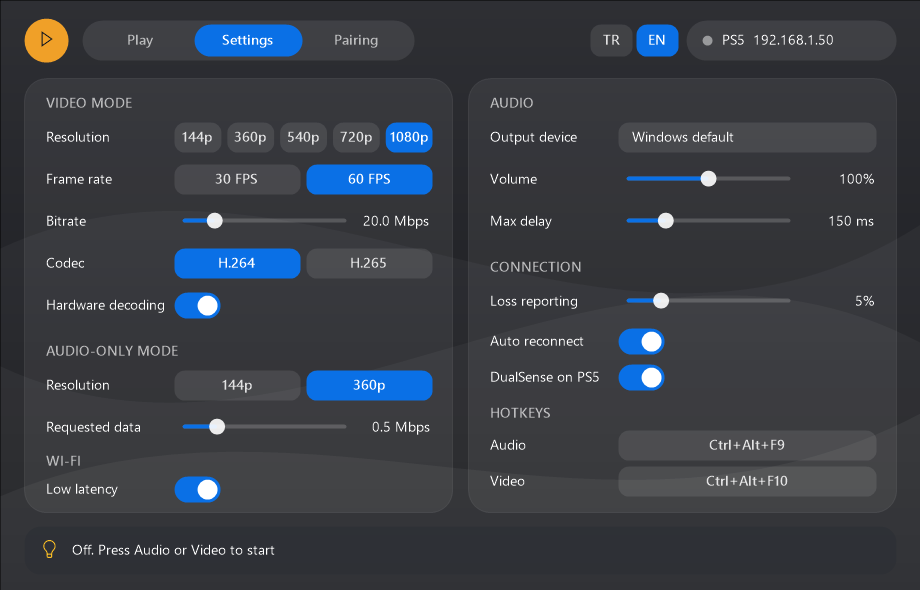
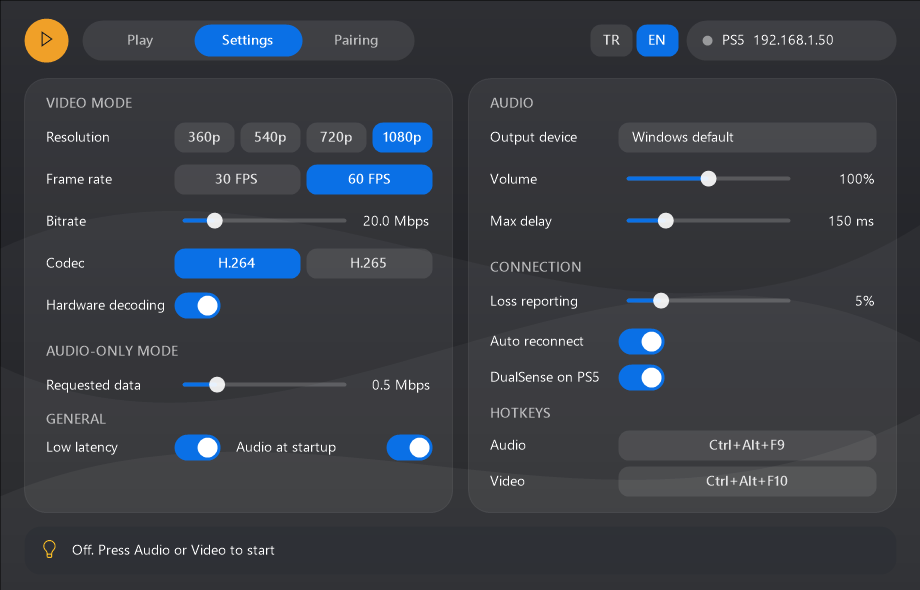
Start audio when the app opens and remove 144p
The PS5 refuses 144p, so 360p is now the lowest option. Keeping the PC
awake and the Wi-Fi tuning now apply only while connected.

diff --git a/src/ui.c b/src/ui.c
@@ -27,7 +27,7 @@
 #define ICON_PLAY L""
 
 enum { UI_NONE, UI_NAV0, UI_NAV1, UI_NAV2, UI_AUDIO, UI_VIDEO, UI_GEAR_A, UI_GEAR_V, UI_APPLY, UI_FIND, UI_LOGIN, UI_ACCOUNT_CLEAR, UI_PAIR, UI_REPAIR,
-	UI_DEVICE, UI_HK_AUDIO, UI_HK_VIDEO, UI_HW, UI_RECONNECT, UI_CONTROLLER, UI_WIFI, UI_BITRATE, UI_AO_BITRATE, UI_VOLUME, UI_BUFFER, UI_LOSS,
+	UI_DEVICE, UI_HK_AUDIO, UI_HK_VIDEO, UI_HW, UI_RECONNECT, UI_CONTROLLER, UI_WIFI, UI_AUTOSTART, UI_BITRATE, UI_AO_BITRATE, UI_VOLUME, UI_BUFFER, UI_LOSS,
 	UI_PRESET0 = 40, UI_RES0 = 50, UI_FPS0 = 60, UI_CODEC0 = 65, UI_AORES0 = 70, UI_LANG0 = 80, UI_MAX = 96 };
 
 static struct {
@@ -450,15 +450,17 @@ static void page_settings(void)
 	panel(lx, py, pw, ph);
 	panel(rx, py, pw, ph);
 
-	static const wchar_t *const res_names[] = { L"144p", L"360p", L"540p", L"720p", L"1080p" };
+	static const wchar_t *const res_names[] = { L"360p", L"540p", L"720p", L"1080p" };
 	static const wchar_t *const fps_names[] = { L"30 FPS", L"60 FPS" };
 	static const wchar_t *const codec_names[] = { L"H.264", L"H.265" };
 
 	float x = lx + 20, cx = lx + 150, cw = pw - 170, y = py + 14;
 	heading(L"GÖRÜNTÜ MODU", x, y);
 	y += 30;
-	row_label(L"Çözünürlük", L"144p deneyseldir, PS5 kabul etmezse otomatik olarak 360p'ye döner.", x, y, pw - 40);
-	chips_row(UI_RES0, res_names, RES_COUNT, &d->res, cx, y, cw);
+	row_label(L"Çözünürlük", L"Yüksek çözünürlük daha fazla veri ister. PS5 360p'nin altını kabul etmez.", x, y, pw - 40);
+	int res_i = d->res - RES_MIN;
+	chips_row(UI_RES0, res_names, RES_COUNT - RES_MIN, &res_i, cx, y, cw);
+	d->res = res_i + RES_MIN;
 	y += 42;
 	row_label(L"Kare hızı", L"60 FPS daha akıcıdır ama daha fazla veri ister.", x, y, pw - 40);
 	int fps_i = d->fps == 60;
@@ -481,21 +483,23 @@ static void page_settings(void)
 	y += 50;
 	heading(L"SADECE SES MODU", x, y);
 	y += 30;
-	row_label(L"Çözünürlük", L"PS5 görüntüyü yine gönderir, bu yüzden en küçüğü istenir. Görüntü çözülmez.", x, y, pw - 40);
-	chips_row(UI_AORES0, res_names, 2, &d->ao_res, cx, y, cw);
-	y += 42;
-	row_label(L"İstenen veri", L"Wi-Fi'ın kötüyse en düşükte bırak. PS5 kabul etmezse 2 Mbps'ye döner.", x, y, pw - 40);
+	row_label(L"İstenen veri", L"PS5 görüntüyü yine 360p gönderir ama çözülmez. Wi-Fi'ın kötüyse en düşükte bırak. PS5 kabul etmezse 2 Mbps'ye döner.", x, y, pw - 40);
 	steps = d->ao_kbps / 100;
 	slider(UI_AO_BITRATE, cx + 8, y, cw - 94, &steps, 1, 20);
 	d->ao_kbps = steps * 100;
 	bitrate_text(t, 64, d->ao_kbps);
 	text(t, ui.body, cx + cw - 80, y, 80, 30, C_TEXT, 2, 1);
 	y += 38;
-	heading(L"WI-FI", x, y);
+	heading(L"GENEL", x, y);
 	y += 24;
 	row_label(L"Düşük gecikme", L"Bağlıyken Windows'un Wi-Fi taramalarını durdurur, bilgisayarı uyanık tutar. Bağlantı kapanınca eski hâline döner.", x, y, pw - 40);
 	if(switch_toggle(UI_WIFI, cx, y + 2, d->wifi_opt != 0))
 		d->wifi_opt = !d->wifi_opt;
+	text(L"Açılışta ses", ui.body, cx + 60, y, 140, 30, C_TEXT, 0, 1);
+	if(mouse_in(cx + 60, y, cw - 60, 34))
+		ui.tip = L"Uygulama açılınca ses kendiliğinden başlar. PS5 kapalıysa açılana kadar dener.";
+	if(switch_toggle(UI_AUTOSTART, cx + cw - 46, y + 2, d->autostart_audio != 0))
+		d->autostart_audio = !d->autostart_audio;
 
 	x = rx + 20;
 	cx = rx + 150;
@@ -682,7 +686,7 @@ static void status_bar(void)
 	Settings live = settings_get();
 	bool dirty = ui.page == PAGE_SETTINGS && (ui.draft.res != live.res || ui.draft.fps != live.fps || ui.draft.kbps != live.kbps
 		|| ui.draft.h265 != live.h265 || ui.draft.hw != live.hw || ui.draft.ao_res != live.ao_res || ui.draft.ao_kbps != live.ao_kbps
-		|| ui.draft.loss_pct != live.loss_pct || ui.draft.no_controller != live.no_controller || ui.draft.wifi_opt != live.wifi_opt || ui.draft.reconnect != live.reconnect || ui.draft.hotkey_audio != live.hotkey_audio
+		|| ui.draft.loss_pct != live.loss_pct || ui.draft.no_controller != live.no_controller || ui.draft.wifi_opt != live.wifi_opt || ui.draft.autostart_audio != live.autostart_audio || ui.draft.reconnect != live.reconnect || ui.draft.hotkey_audio != live.hotkey_audio
 		|| ui.draft.hotkey_video != live.hotkey_video || strcmp(ui.draft.device, live.device) != 0);
 
 	float tw = w - 56;
@@ -1257,6 +1261,15 @@ int WINAPI wWinMain(HINSTANCE inst, HINSTANCE prev, PWSTR cmd, int show)
 #endif
 	(void)test_thread;
 	HANDLE worker = CreateThread(NULL, 0, thread_main, thread_arg, 0, NULL);
+	bool autostart = !g.test_hidden;
+#ifdef PSSTREAM_TEST
+	autostart = autostart || GetEnvironmentVariableW(L"PSSTREAM_TEST_AUTOSTART", NULL, 0) != 0;
+#endif
+	if(autostart && g.paired && g.host[0] && g.settings.autostart_audio)
+	{
+		g.want_audio = 1;
+		SetEvent(g.wake);
+	}
 
 	if(!g.test_hidden)
 		ShowWindow(g.hwnd, show);

diff --git a/src/main.c b/src/main.c
@@ -40,10 +40,10 @@
 #include <stdlib.h>
 #include <string.h>
 
-// Below this rate or size we are outside what chiaki-ng offers, so a console that refuses
-// to start gets a second try with these values.
+// Below this rate we are outside what chiaki-ng offers, so a console that refuses to start
+// gets a second try with it.
 #define SAFE_KBPS 2000
-#define SAFE_RES_INDEX 1
+#define RES_MIN 1
 #define RETRY_MS 5000
 // Audio waits for this much backlog before playing; each dropout raises it, quiet minutes lower it
 #define AUDIO_TARGET_MIN_MS 30
@@ -76,7 +76,7 @@ typedef struct {
 } Resolution;
 
 static const Resolution resolutions[] = {
-	{ L"144p (deneysel, PS5 kabul etmeyebilir)", 256, 144 },
+	{ L"144p", 256, 144 }, // kept so saved indexes stay valid; the PS5 refuses it ("AvCap failed to initialize")
 	{ L"360p", 640, 360 },
 	{ L"540p", 960, 540 },
 	{ L"720p", 1280, 720 },
@@ -87,7 +87,7 @@ static const Resolution resolutions[] = {
 typedef struct {
 	int res, fps, kbps, h265, hw;
 	int ao_res, ao_kbps;
-	int volume, buffer_ms, loss_pct, reconnect, no_controller, wifi_opt;
+	int volume, buffer_ms, loss_pct, reconnect, no_controller, wifi_opt, autostart_audio;
 	int hotkey_audio, hotkey_video; // HKM_GETHOTKEY format
 	char device[256]; // empty is the system default
 } Settings;
@@ -460,6 +460,7 @@ static void session_event_cb(ChiakiEvent *event, void *user)
 	{
 		case CHIAKI_EVENT_CONNECTED:
 			g.connected = 1;
+			SetEvent(g.wake);
 			set_status(g.want_video ? L"Bağlı - görüntü açık" : L"Bağlı - sadece ses, görüntü çözülmüyor");
 			break;
 		case CHIAKI_EVENT_LOGIN_PIN_REQUEST:
@@ -482,8 +483,6 @@ static void session_event_cb(ChiakiEvent *event, void *user)
 
 static void profile_set(ChiakiConnectVideoProfile *p, int res, int fps, int kbps, ChiakiCodec codec, bool safe)
 {
-	if(safe && res < SAFE_RES_INDEX)
-		res = SAFE_RES_INDEX;
 	if(safe && kbps < SAFE_KBPS)
 		kbps = SAFE_KBPS;
 	p->width = resolutions[res].width;
@@ -668,9 +667,11 @@ static DWORD WINAPI worker_main(void *arg)
 		bool want_video = g.want_video != 0;
 		bool want_any = !g.quit && (g.want_audio || want_video);
 		Settings s = settings_get();
-		wifi_tune(want_any && s.wifi_opt);
+		// Only while connected, so a PS5 that's off doesn't keep the PC awake or its Wi-Fi tuned
+		bool live = want_any && g.connected;
+		wifi_tune(live && s.wifi_opt);
 		// The PC often sits untouched while the game plays on the TV
-		SetThreadExecutionState(ES_CONTINUOUS | (want_any ? ES_SYSTEM_REQUIRED : 0) | (want_video && !g.quit ? ES_DISPLAY_REQUIRED : 0));
+		SetThreadExecutionState(ES_CONTINUOUS | (live ? ES_SYSTEM_REQUIRED : 0) | (live && want_video ? ES_DISPLAY_REQUIRED : 0));
 
 		if(running)
 		{
@@ -790,12 +791,12 @@ static void config_load(void)
 
 	Settings *s = &g.settings;
 	const Preset *p = &presets[PRESET_DEFAULT];
-	s->res = config_int("res", p->res, 0, RES_COUNT - 1);
+	s->res = config_int("res", p->res, RES_MIN, RES_COUNT - 1);
 	s->fps = config_int("fps", p->fps, 30, 60) == 60 ? 60 : 30;
 	s->kbps = config_int("kbps", p->kbps, 500, 100000);
 	s->h265 = config_int("h265", p->h265, 0, 1);
 	s->hw = config_int("hw", 1, 0, 1);
-	s->ao_res = config_int("ao_res", 1, 0, 1);
+	s->ao_res = config_int("ao_res", RES_MIN, RES_MIN, RES_MIN);
 	s->ao_kbps = config_int("ao_kbps", 500, 100, 2000);
 	s->volume = config_int("volume", 100, 0, 200);
 	s->buffer_ms = config_int("buffer_ms", 150, 40, 500);
@@ -803,6 +804,7 @@ static void config_load(void)
 	s->reconnect = config_int("reconnect", 1, 0, 1);
 	s->no_controller = config_int("no_controller", 1, 0, 1);
 	s->wifi_opt = config_int("wifi_opt", 1, 0, 1);
+	s->autostart_audio = config_int("autostart_audio", 1, 0, 1);
 	s->hotkey_audio = config_int("hotkey_audio", MAKEWORD(VK_F9, HOTKEYF_CONTROL | HOTKEYF_ALT), 0, 0xffff);
 	s->hotkey_video = config_int("hotkey_video", MAKEWORD(VK_F10, HOTKEYF_CONTROL | HOTKEYF_ALT), 0, 0xffff);
 	GetPrivateProfileStringA("settings", "device", "", s->device, sizeof(s->device), g.config_path);
@@ -823,6 +825,7 @@ static void config_save_settings(const Settings *s)
 	config_set_int("reconnect", s->reconnect);
 	config_set_int("no_controller", s->no_controller);
 	config_set_int("wifi_opt", s->wifi_opt);
+	config_set_int("autostart_audio", s->autostart_audio);
 	config_set_int("hotkey_audio", s->hotkey_audio);
 	config_set_int("hotkey_video", s->hotkey_video);
 	WritePrivateProfileStringA("settings", "device", s->device, g.config_path);

diff --git a/src/i18n.c b/src/i18n.c
@@ -27,7 +27,6 @@ static const wchar_t *const english[][2] = {
 	{ L"Görüntü kalitesi. Sadece ses modunu etkilemez.", L"Video quality. Does not affect audio-only mode." },
 	{ L"GÖRÜNTÜ MODU", L"VIDEO MODE" },
 	{ L"Çözünürlük", L"Resolution" },
-	{ L"144p deneyseldir, PS5 kabul etmezse otomatik olarak 360p'ye döner.", L"144p is experimental. If the PS5 refuses it, the app falls back to 360p." },
 	{ L"Kare hızı", L"Frame rate" },
 	{ L"60 FPS daha akıcıdır ama daha fazla veri ister.", L"60 FPS is smoother but needs more data." },
 	{ L"Yüksek bitrate daha temiz görüntü verir, Wi-Fi zayıfsa takılma yapar.", L"Higher bitrate looks cleaner but stutters on weak Wi-Fi." },
@@ -35,9 +34,9 @@ static const wchar_t *const english[][2] = {
 	{ L"Donanımla çöz", L"Hardware decoding" },
 	{ L"Görüntüyü ekran kartı çözer, işlemci rahatlar. Açık kalması önerilir.", L"The graphics card decodes video, easing the CPU. Best left on." },
 	{ L"SADECE SES MODU", L"AUDIO-ONLY MODE" },
-	{ L"PS5 görüntüyü yine gönderir, bu yüzden en küçüğü istenir. Görüntü çözülmez.", L"The PS5 still sends video, so the smallest is requested. It is not decoded." },
 	{ L"İstenen veri", L"Requested data" },
-	{ L"Wi-Fi'ın kötüyse en düşükte bırak. PS5 kabul etmezse 2 Mbps'ye döner.", L"Keep it lowest on bad Wi-Fi. If the PS5 refuses, the app falls back to 2 Mbps." },
+	{ L"PS5 görüntüyü yine 360p gönderir ama çözülmez. Wi-Fi'ın kötüyse en düşükte bırak. PS5 kabul etmezse 2 Mbps'ye döner.", L"The PS5 still sends 360p video, but it isn't decoded. Keep it lowest on bad Wi-Fi. If the PS5 refuses, the app falls back to 2 Mbps." },
+	{ L"Yüksek çözünürlük daha fazla veri ister. PS5 360p'nin altını kabul etmez.", L"Higher resolutions need more data. The PS5 refuses anything below 360p." },
 	{ L"SES", L"AUDIO" },
 	{ L"Çıkış aygıtı", L"Output device" },
 	{ L"Oyun sesi bu aygıttan çıkar. Discord'dan ayrı kulaklığa verebilirsin.", L"Game audio plays here. You can use a different headset from Discord." },
@@ -60,6 +59,9 @@ static const wchar_t *const english[][2] = {
 	{ L"Başka hesapla eşleştir", L"Pair another account" },
 	{ L"Oynat'a dön", L"Back to Play" },
 	{ L"Ctrl veya Alt ile birlikte bas, ya da bir F tuşu seç", L"Press it with Ctrl or Alt, or pick an F key" },
+	{ L"GENEL", L"GENERAL" },
+	{ L"Açılışta ses", L"Audio at startup" },
+	{ L"Uygulama açılınca ses kendiliğinden başlar. PS5 kapalıysa açılana kadar dener.", L"Audio starts when the app opens. If the PS5 is off, it keeps trying until it's on." },
 	{ L"KISAYOLLAR", L"HOTKEYS" },
 	{ L"Tıkla, sonra tuş kombinasyonuna bas. Esc iptal eder, Delete kaldırır.", L"Click, then press a key combination. Esc cancels, Delete clears." },
 	{ L"Tuşa bas...", L"Press keys..." },

diff --git a/README.md b/README.md
@@ -41,7 +41,7 @@ You need Windows 10 or 11 (64-bit), a PS5 on the same network, and a web browser
    - On the PS5, go to **Settings > System > Remote Play > Link Device** and type the 8-digit code into the app. Pairing starts by itself.
 4. Press **Turn on** under **Audio** or **Video**.
 
-You only pair once. After that, open the app and turn on what you need.
+You only pair once. After that, audio starts when you open the app, and you can turn video on whenever you need it. To choose yourself each time, turn off **Audio at startup** in Settings.
 
 ![Pairing page](docs/pair.png)
 
@@ -67,7 +67,8 @@ For the best results on Wi-Fi, connect the PS5 to your router with a cable, or u
 - Local network only.
 - No controller input from the PC. The app is for audio and video.
 - The PS5 sends some video even in audio-only mode, so the network use doesn't reach zero.
-- 144p and rates below 2 Mbps are experimental. If the console refuses them, the app falls back to 360p and 2 Mbps.
+- 360p is the lowest resolution. A PS5 refused 144p when tested.
+- Rates below 2 Mbps are outside what chiaki-ng offers. If the console refuses one, the app falls back to 2 Mbps.
 
 ## Is it safe for my account?
 
